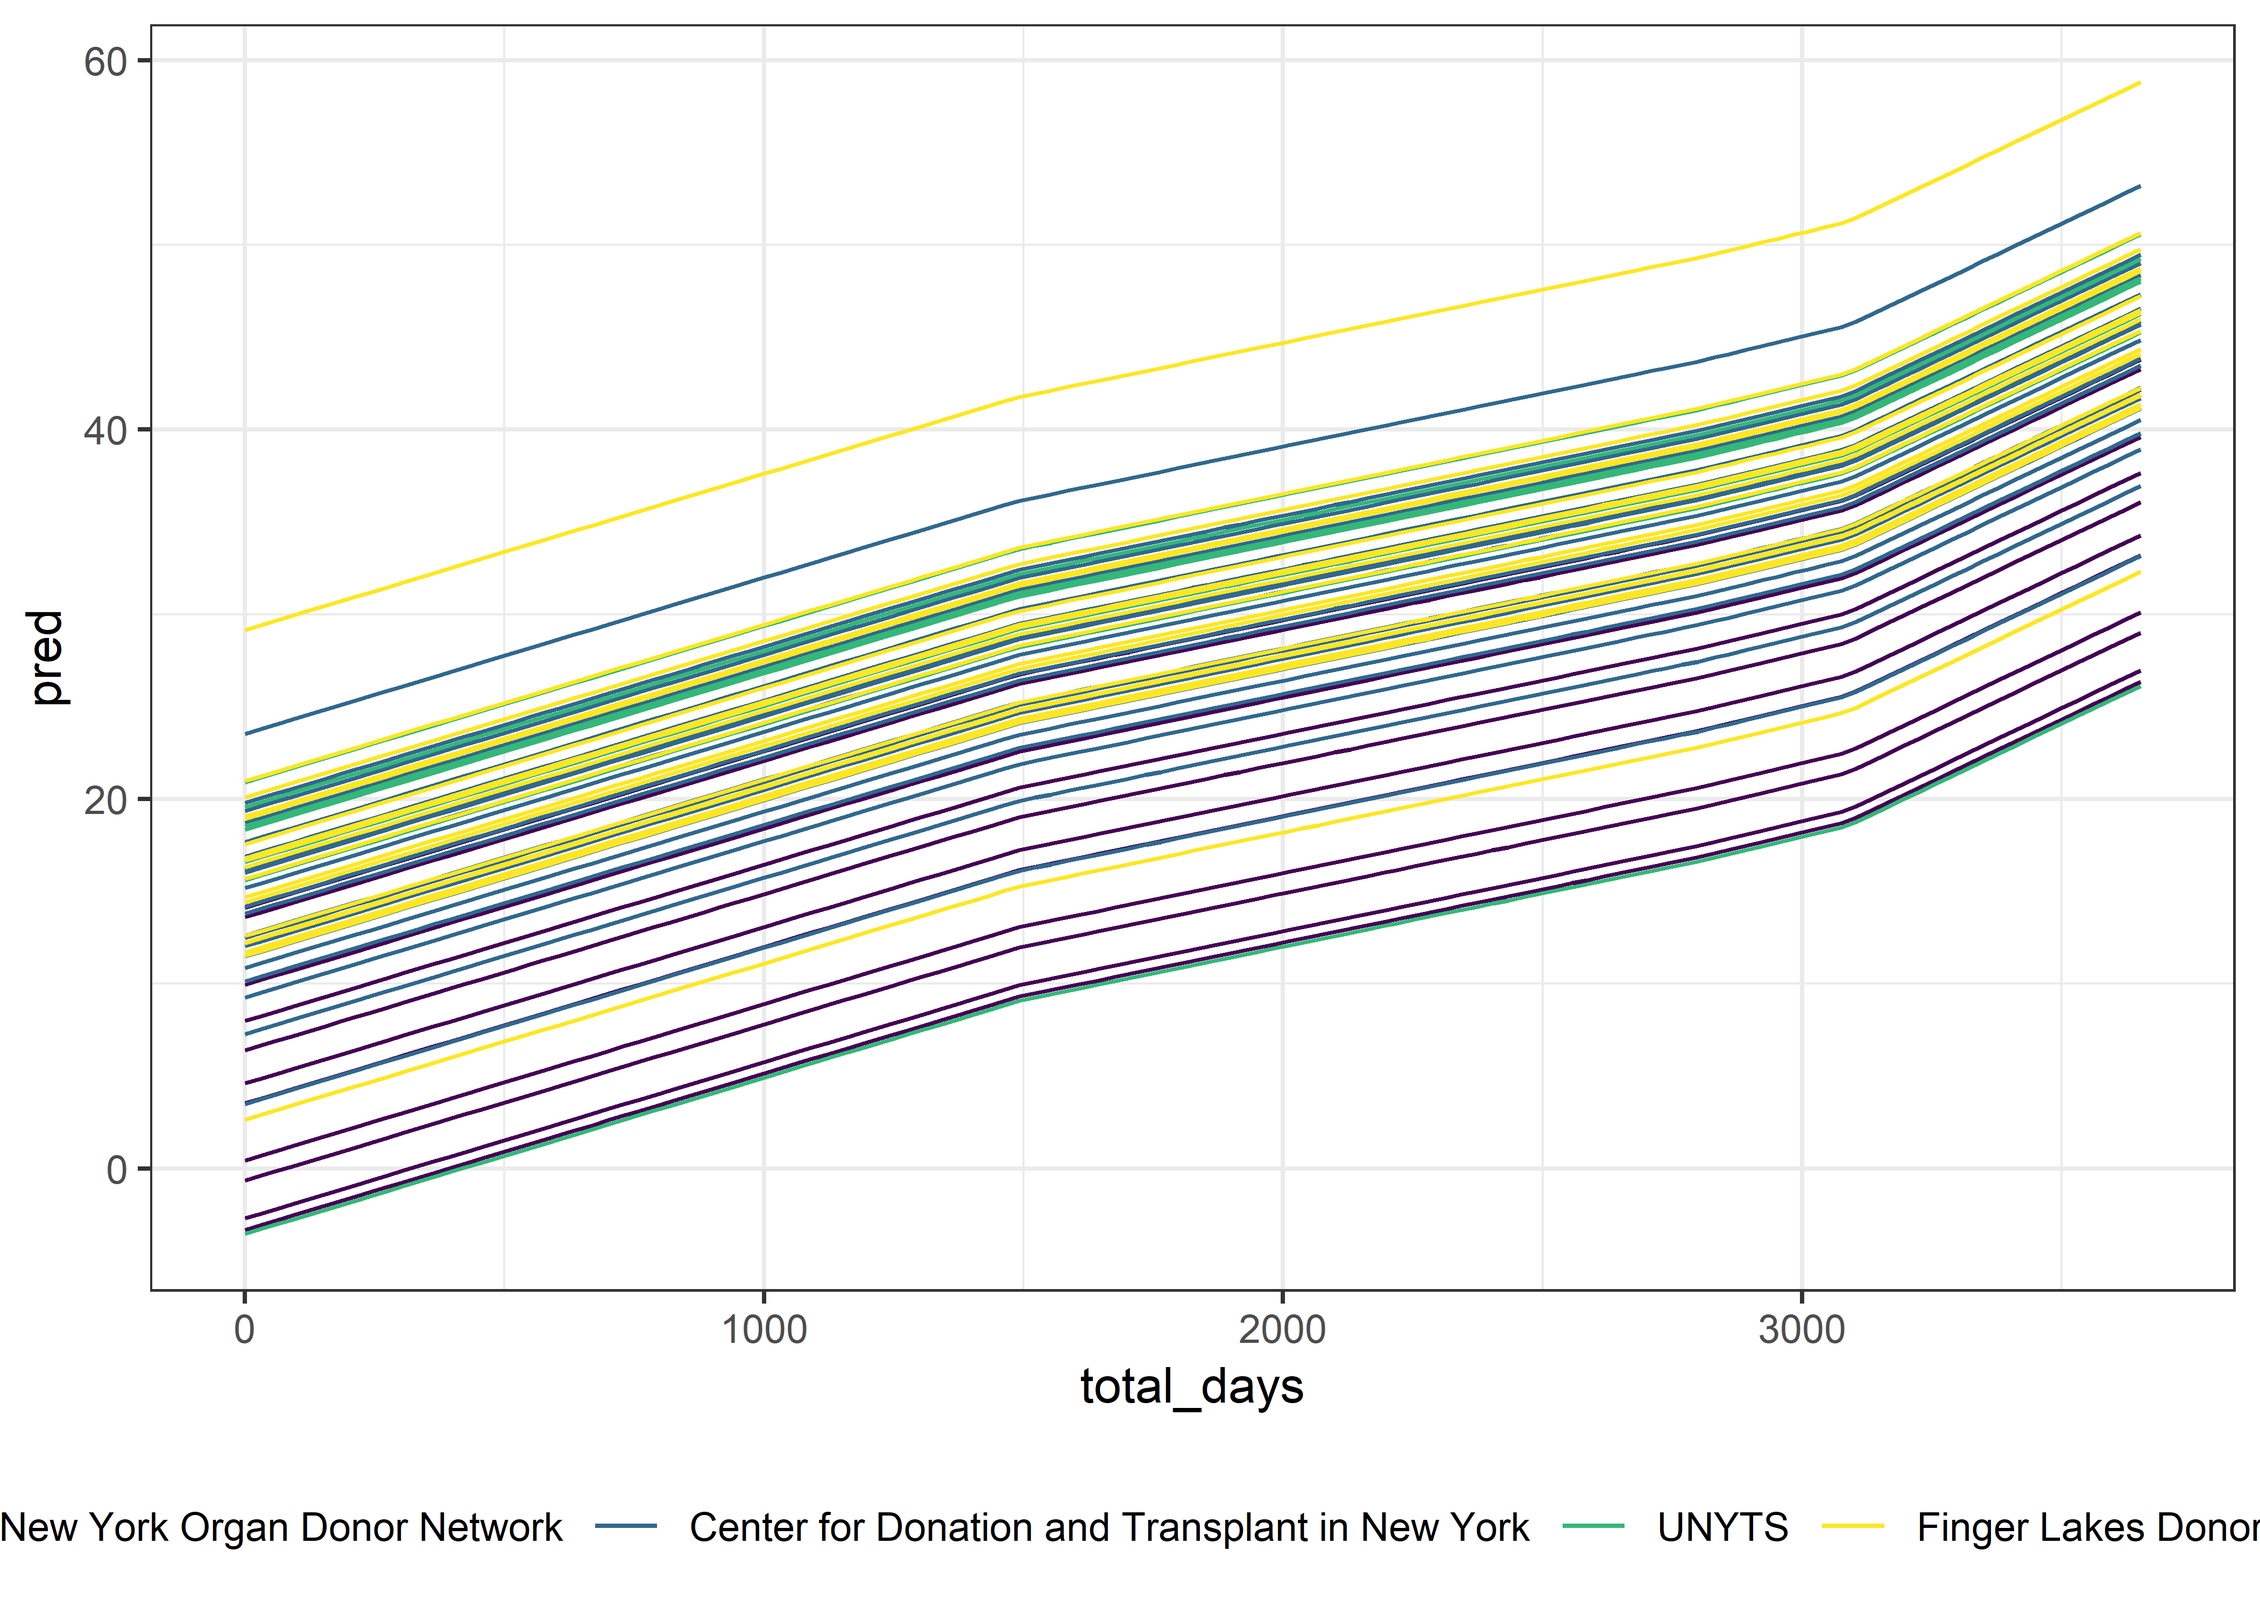
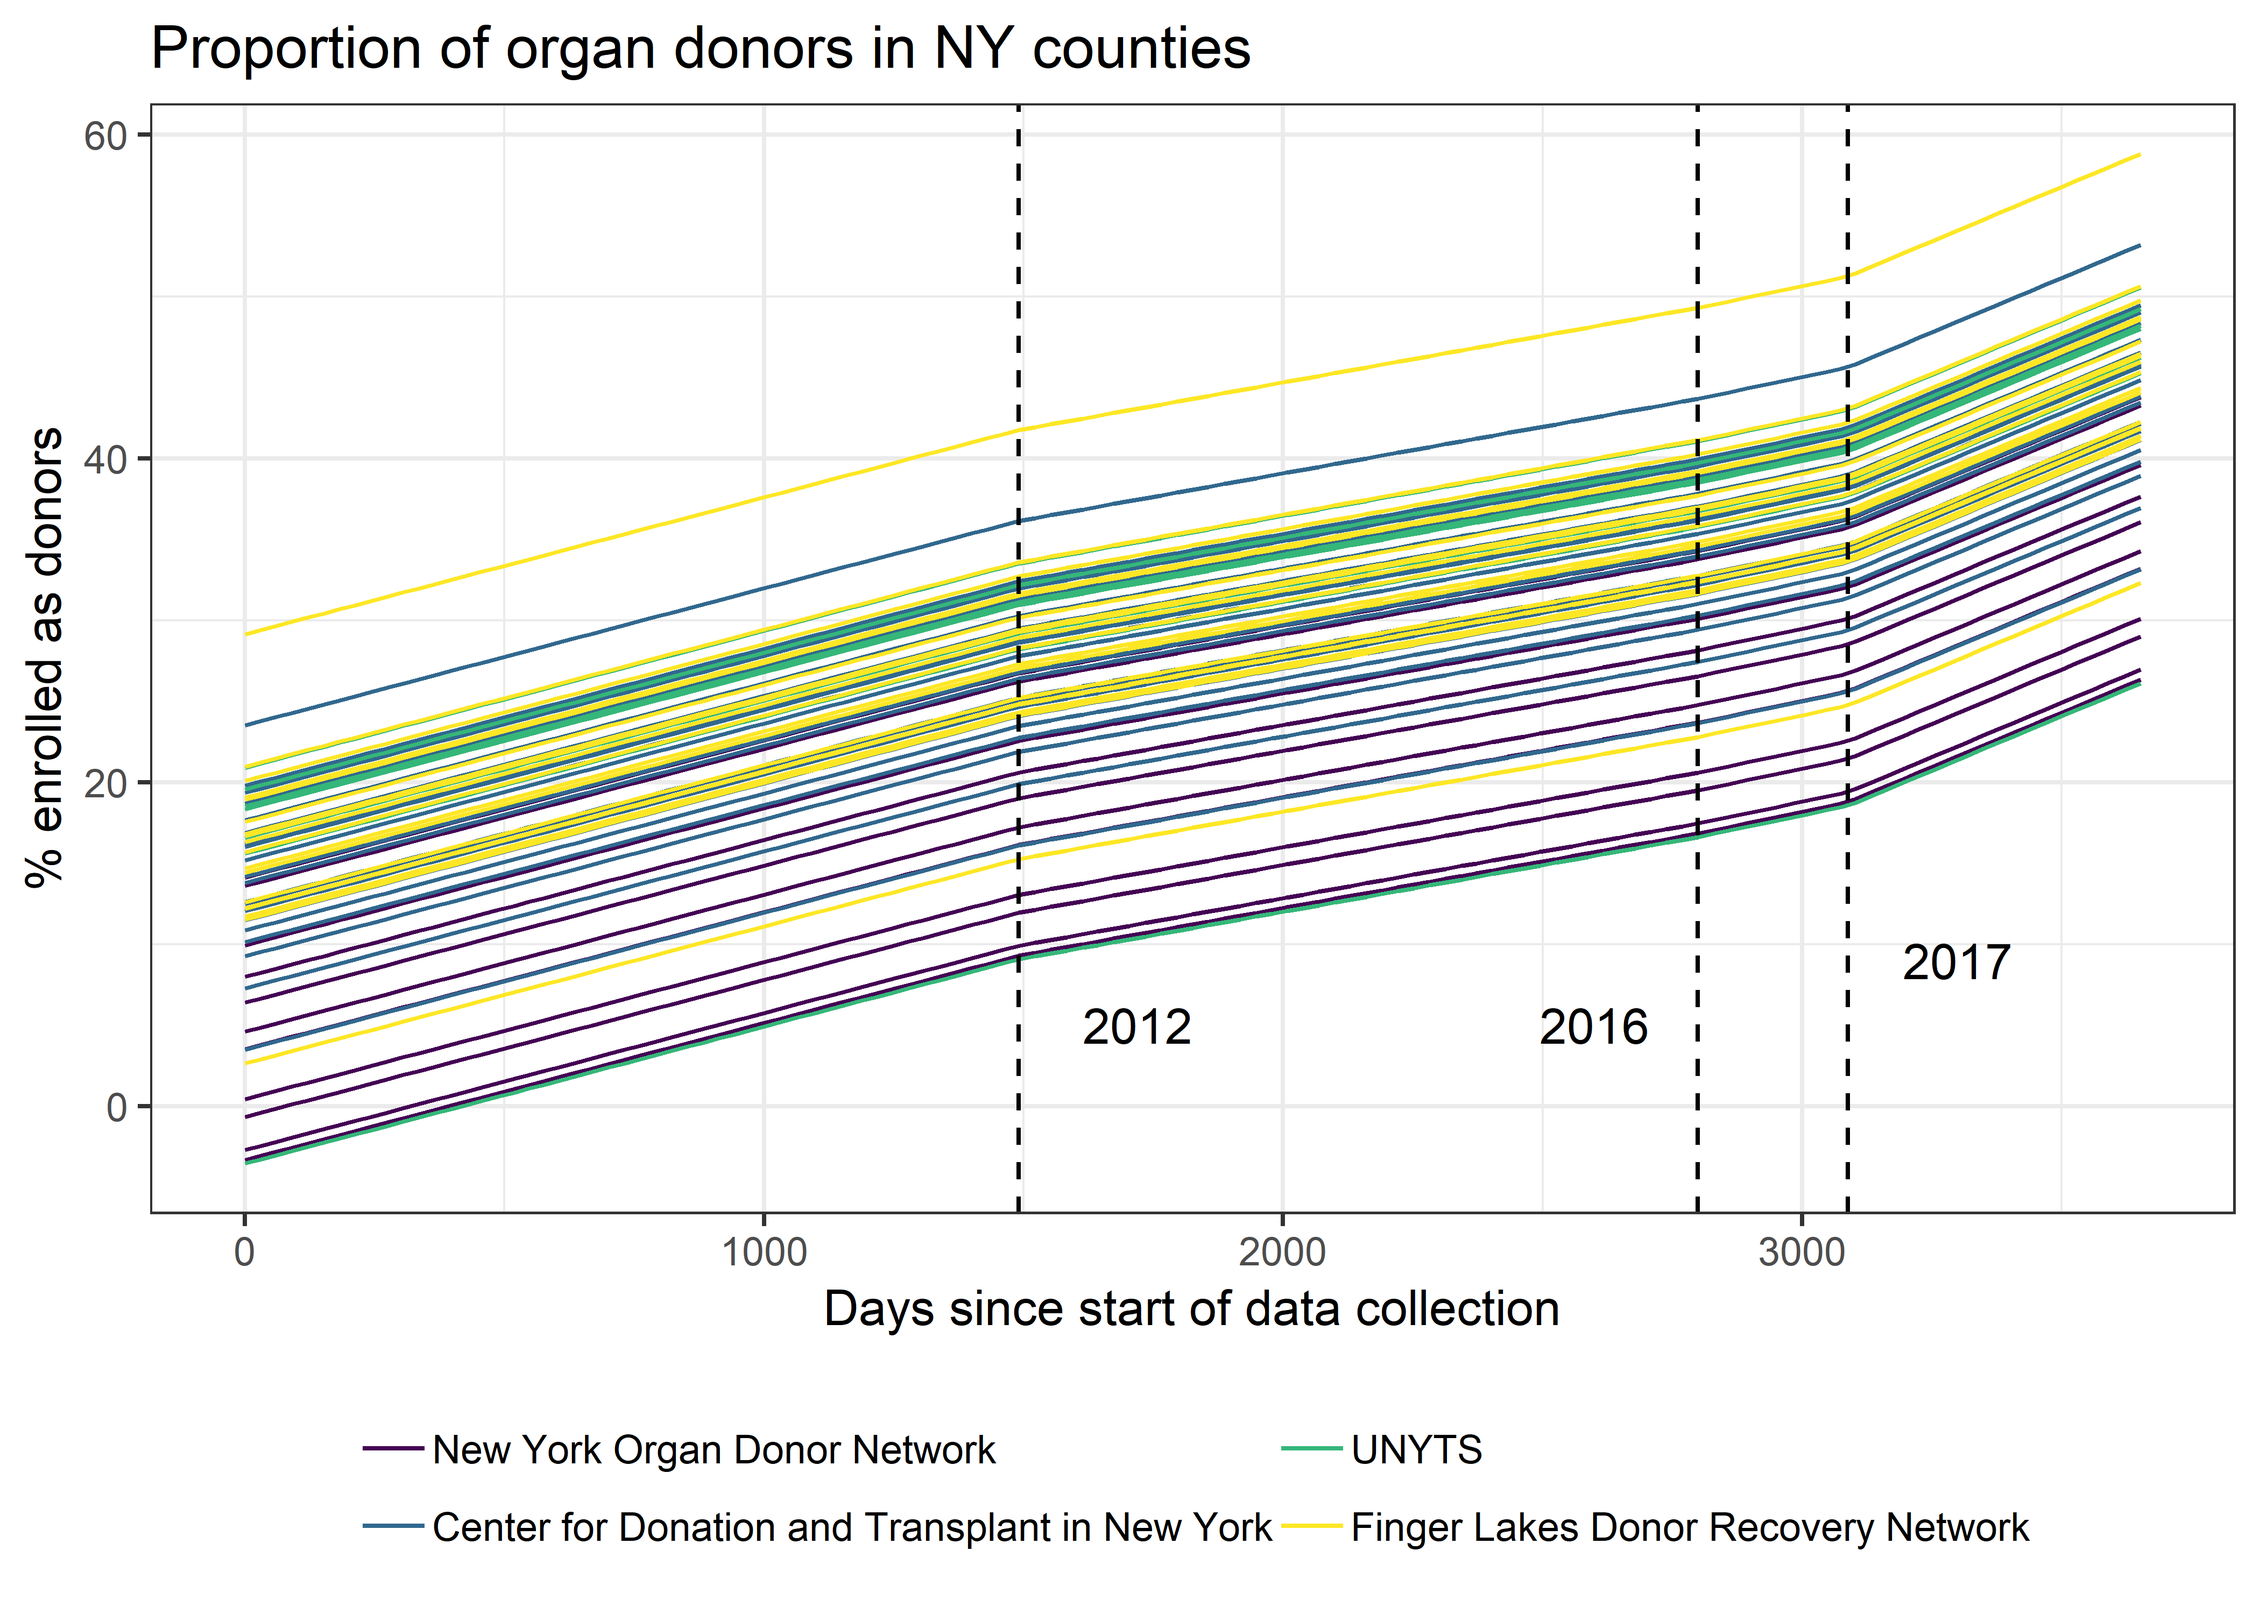
updated plot

diff --git a/mixed_models.html b/mixed_models.html
@@ -281,12 +281,17 @@ Time (year)
 </tr>
 </tbody>
 </table>
+<pre class="r"><code>organ_sp %&gt;% 
+  ggplot(aes(x = total_days, y = eligible_population_enrolled)) + 
+  geom_jitter()</code></pre>
+<p><img src="mixed_models_files/figure-html/overall%20time-1.png" width="75%" /></p>
 <pre class="r"><code>add_predictions(organ_sp, no_sp_model) %&gt;% 
   ggplot(aes(x = total_days, y = pred, color = opo, type = county)) + 
   geom_line() + 
+  geom_jitter(aes(x = total_days, y = eligible_population_enrolled), color = &quot;black&quot;, alpha = 0.1) +
   viridis::scale_color_viridis(discrete = TRUE) + 
   theme(legend.position = &quot;bottom&quot;)</code></pre>
-<p><img src="mixed_models_files/figure-html/overall%20time-1.png" width="75%" /></p>
+<p><img src="mixed_models_files/figure-html/overall%20time-2.png" width="75%" /></p>
 <pre class="r"><code>sp_12_model &lt;- organ_sp %&gt;% 
   lmer(eligible_population_enrolled ~ total_days + year_sp_2012 + (1 | county), data = .)
 
@@ -655,7 +660,18 @@ Time (year)
   ggplot(aes(x = total_days, y = pred, color = opo, type = county)) + 
   geom_line() +
   viridis::scale_color_viridis(discrete = TRUE) + 
-  theme(legend.position = &quot;bottom&quot;)</code></pre>
+  geom_vline(xintercept = 1491, linetype = &quot;dashed&quot;) + 
+  geom_vline(xintercept = 2799, linetype = &quot;dashed&quot;) + 
+  geom_vline(xintercept = 3088, linetype = &quot;dashed&quot;) + 
+  annotate(geom = &quot;text&quot;, x = 1720, y = 5, label = &quot;2012&quot;) +
+  annotate(geom = &quot;text&quot;, x = 2600, y = 5, label = &quot;2016&quot;) +
+  annotate(geom = &quot;text&quot;, x = 3300, y = 9, label = &quot;2017&quot;) +
+  theme(legend.position = &quot;bottom&quot;, 
+        legend.title = element_blank()) + 
+  guides(color = guide_legend(ncol = 2)) + 
+  labs(title = &quot;Proportion of organ donors in NY counties&quot;, 
+       x = &quot;Days since start of data collection&quot;,
+       y = &quot;% enrolled as donors&quot;)</code></pre>
 <p><img src="mixed_models_files/figure-html/all%20splines-1.png" width="75%" /></p>
 <p>Comparing nested models</p>
 <pre class="r"><code>mods &lt;- list(no_sp_model, sp_12_model, sp_16_model, sp_17_model, all_sp_model)
